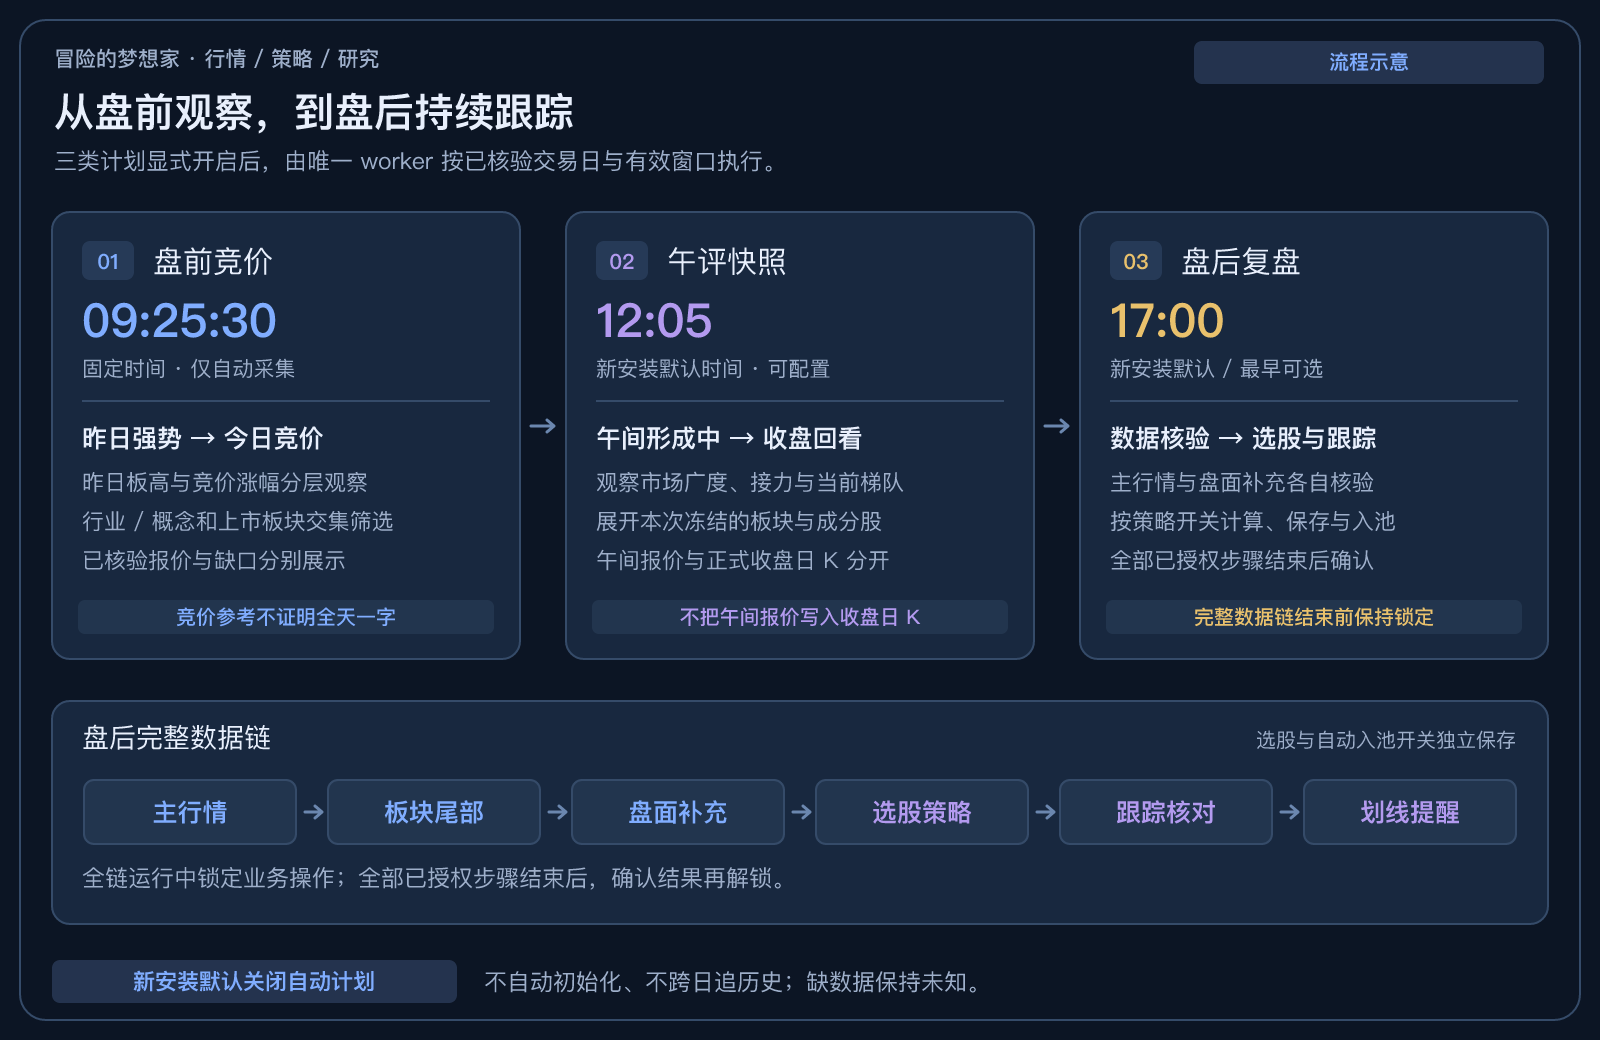
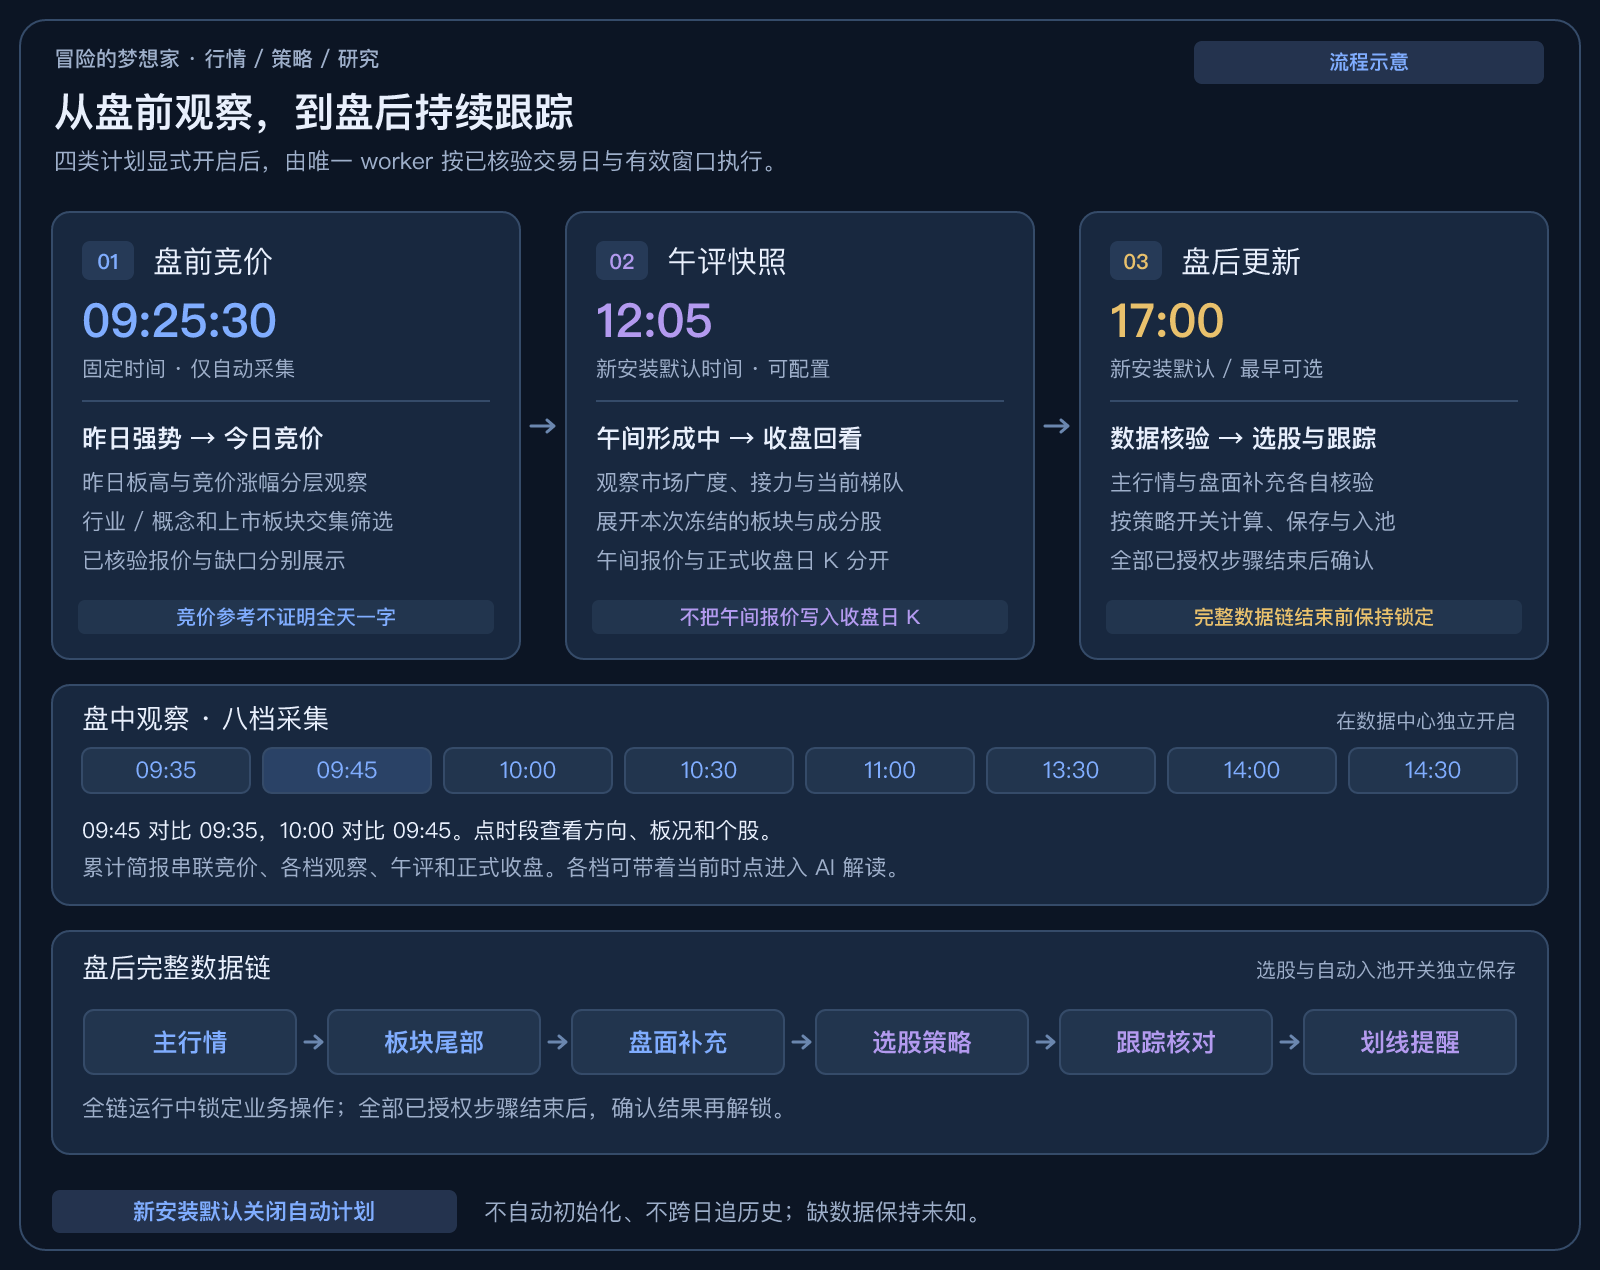
发布 0.1.24 并更新盘中观察使用说明

Changed region(s): [[0.0, 0.0, 0.9688, 0.9846], [0.5, 0.7692, 0.6562, 0.8308], [0.9688, 0.9538, 1.0, 0.9846]]

diff --git a/backend/app/infrastructure/config.py b/backend/app/infrastructure/config.py
@@ -4,7 +4,7 @@ from pathlib import Path
 PROJECT_ROOT = Path(__file__).resolve().parents[3]
 APP_NAME = "冒险的梦想家"
 APP_ID = "ad-market-review"
-APP_VERSION = "0.1.23"
+APP_VERSION = "0.1.24"
 
 def data_dir() -> Path:
     return Path(os.environ.get("SHIXU_DATA_DIR", str(PROJECT_ROOT / "data"))).expanduser().resolve()

diff --git a/docs/界面导览.md b/docs/界面导览.md
@@ -63,6 +63,8 @@
 
 「盘面研究 → 盘中观察」从09:35开盘观察开始，接续09:45早盘跟踪、10:00、10:30、11:00、午评、13:30、14:00、14:30和正式收盘。09:25竞价仍在独立页面查看，并进入累计简报。启用独立自动计划后，唯一 worker 在核验过的交易日采集八个盘中时点。09:35与09:45各自在第一分钟创建、三分钟内完成采集。09:45与09:35对比，10:00与09:45对比。缺少新计划的前档时，该段变化显示待核验。旧任务按冻结时点执行，原有快照按原口径回看。允许在相同时段手动提交，手动与自动共用日内时点名额。未采到的时段显示缺档；打开页面或切换历史日只读留存。
 
+[查看竞价、八档盘中观察、午评与盘后更新的流程图](images/daily-review-workflow.png)。
+
 午评时间轴使用当天已记录的自动计划时间；今天还未采集时使用当前设置。历史没有排程回执时沿用午间档位名称，采集时间以快照回执为准。「部分留存」表示该时点已有快照，仍有部分报价或来源证据待核验。选中时点后，时间轴下方说明已知缺项。量能以人民币成交额展示，同档累计和同段新增分别对照前一交易日，放量金额用红色、缩量用绿色。同段需要两天对应的起止端点，股票样本只比较相同且可核验的成员，缺档保留待核验。
 
 每个时点左侧目录按实际已展示内容定位并跟随页面滚动高亮。累计简报中的行业、题材名称可点击，跳到对应时点的盘中方向与成员；简报内部滚动不改变整页目录位置。方向观察在同一屏分别列出行业和概念，名称单行、涨幅对齐，保留全部原有方向。

diff --git a/docs/版本升级与回滚.md b/docs/版本升级与回滚.md
@@ -21,6 +21,8 @@
 
 ### 迁移与备份边界
 
+0.1.24 的数据库终点仍为 schema39。独立恢复预演须验证八档盘中计划、09:45 早盘跟踪及其 AI 入口，并对账既有竞价、午评、盘后及 AI 业务。仅新生成的采集计划包含 09:45，历史日期按原留存展示。正式实例恢复各自原已授权的自动计划与采集时间。
+
 盘中轮动完整报价与页面快速滚动修正不新增迁移，已有schema39实例仍按39→39独立版本更新。轮动从原盘中快照、同份午评正文及原收盘代际生成只读投影，不重写历史快照、简报正文或来源SHA，不自动补采历史。原自动竞价、午评、盘中和盘后计划沿用目标实例已授权的配置及时间；独立恢复预演仍关闭自动计划与AI，正式切换必须保留维护窗口最新业务，不能使用预演副本替换。
 
 盘前竞价初版新增迁移030，建立空的独立竞价台账和不可变快照表，不自动创建取数任务。API和唯一worker须使用同一候选源码，在独立恢复副本迁移、核验SHA及业务数量后运行；不能让旧版直接读迁移后的库。竞价原响应有界内嵌SQLite，新版标准备份和恢复会核验原件闭包，不需要额外raw目录。独立预览的数据操作只保存于预览副本，不会自动合并回现用库。正常切换、回滚与保留规则仍按本文执行。

diff --git a/CHANGELOG.md b/CHANGELOG.md
@@ -1,5 +1,12 @@
 # 版本记录
 
+## v0.1.24
+
+- 盘中观察新增 09:45 早盘跟踪。开启自动采集后，新计划按八个盘中时点运行。早盘简报依次串联竞价、09:35 和 09:45，午评与收盘继续按实际留存的可用时点复盘。历史缺档与既有冻结任务保持原口径。
+- 个股研究和盘面研究的 AI 入口按股票、日期、来源和时点预填可编辑的提问。累计简报按当前阅读时段高亮，查阅早段时仍按当时已留存的数据取数。
+- 提升大屏下的表格、说明、图表和设置阅读性。收盘板况按已留存的同期证据补齐行业与概念，短名单按实际内容收缩。
+- 无新增数据库迁移，终点仍为 schema39。正式部署须对各实例独立备份、恢复和对账。
+
 ## v0.1.23
 
 本版将盘中观察、竞价发现及 AI 附件等已验收改动纳入新的正式发行版本。0.1.22 的公开标签与镜像保持原样；下列功能以 0.1.23 的完整源码提交、发行回执及镜像摘要为准。发行完成不代表所有已安装实例已升级。
